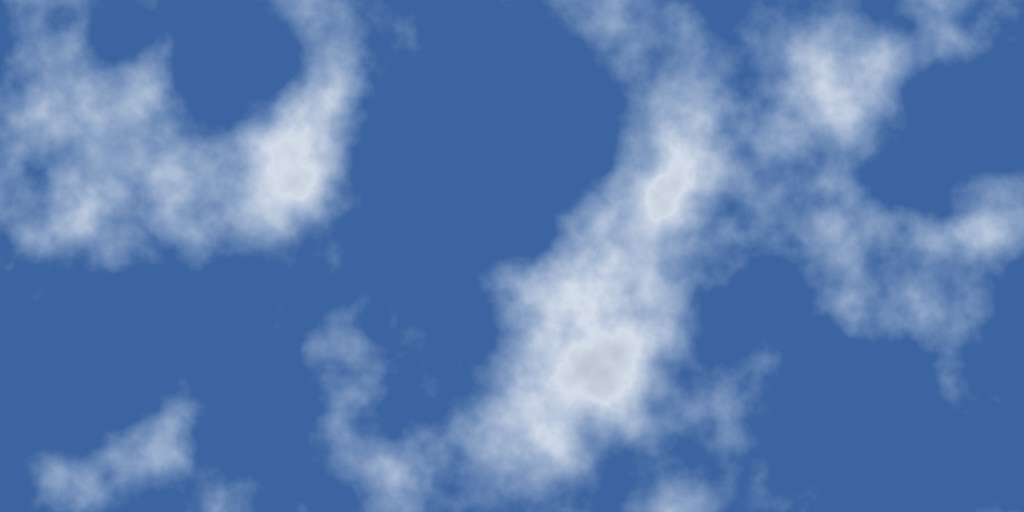
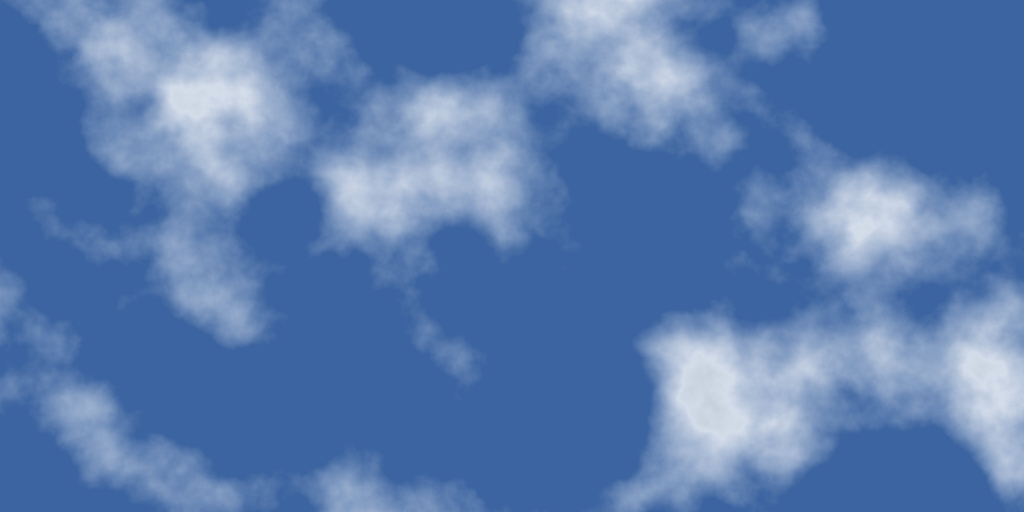
Update

diff --git a/docs/index.html b/docs/index.html
@@ -3,6 +3,6 @@
 <body>
 Today's cloud<br/>
 <img src="latest.png"/><br/>
-Latest update: Thu Mar 18 22:09:46 UTC 2021
+Latest update: Fri Mar 19 22:10:00 UTC 2021
 </body>
 </html>
